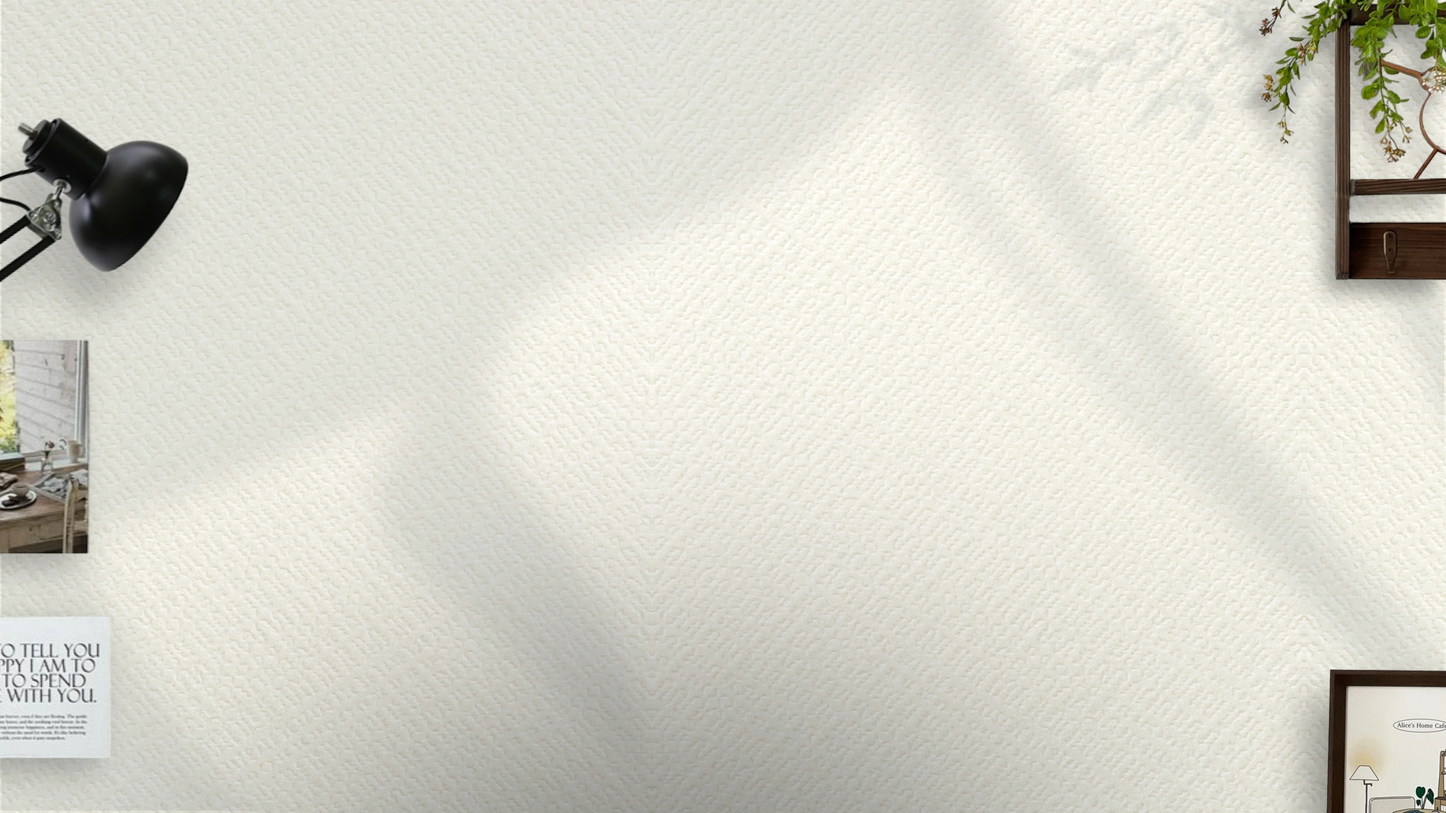
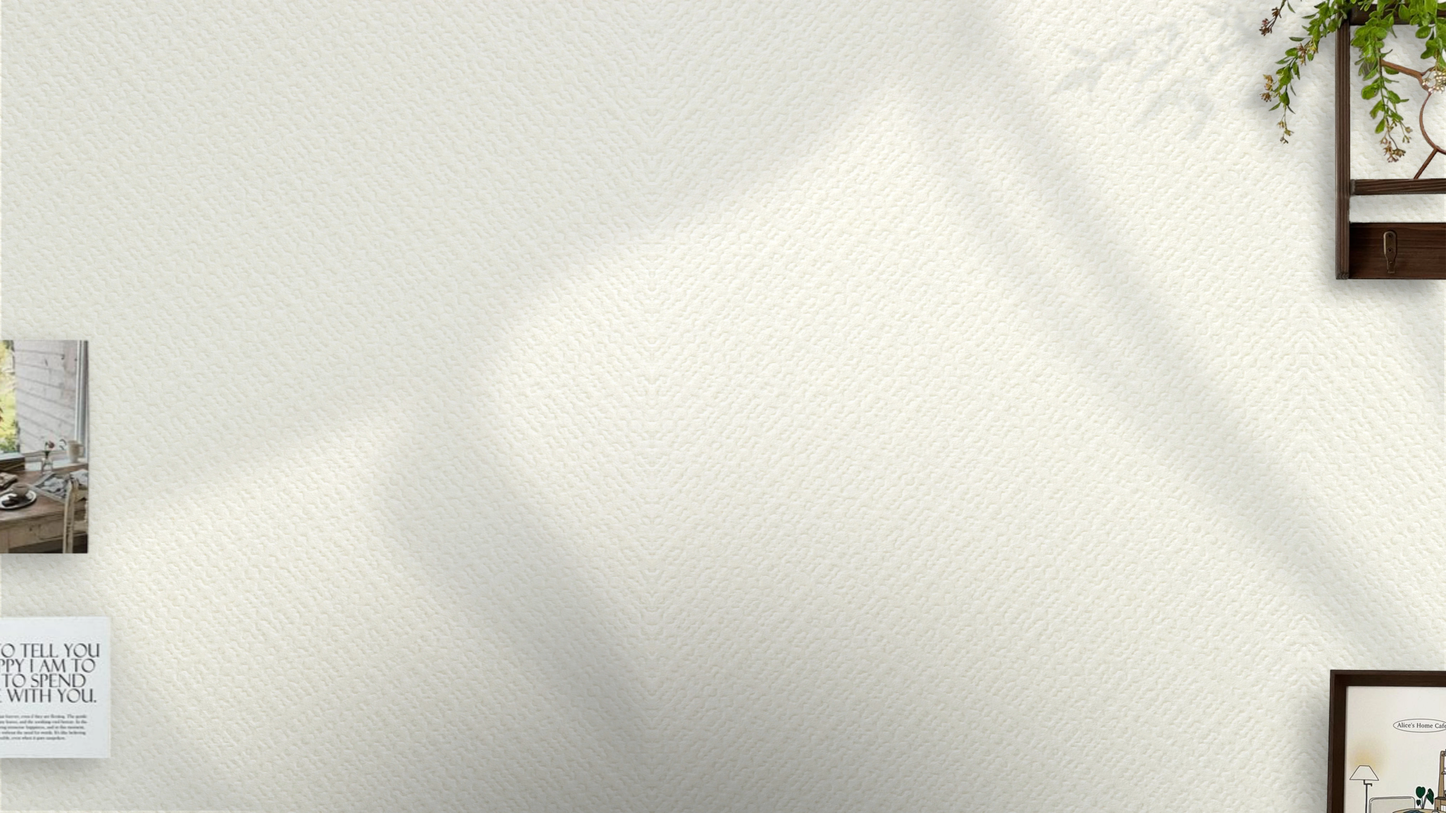
:sparkles: feat: mac 라이트모드 / 다크모드 수동 전환 버튼 생성 및 기능 구현

Changed region(s): [[0.0, 0.1244, 0.1558, 0.3733]]

diff --git a/src/pages/mac.html b/src/pages/mac.html
@@ -16,6 +16,7 @@
     <script type="module" src="/src/ts/mac-power-button.ts"></script>
     <script type="module" src="/src/ts/context-menu.ts"></script>
     <script type="module" src="/src/ts/icon-move.ts"></script>
+    <script type="module" src="/src/ts/button-mode-change.ts"></script>
     <script src="https://cdn.jsdelivr.net/npm/fullcalendar@6.1.17/index.global.min.js"></script>
     <script src="https://cdn.jsdelivr.net/npm/@fullcalendar/core@6.1.17/index.global.min.js"></script>
     <script src="https://cdn.jsdelivr.net/npm/@fullcalendar/daygrid@6.1.17/index.global.min.js"></script>
@@ -32,7 +33,10 @@
   </head>
   <body class="font-sans overflow-hidden no-scroll grid grid-cols-[1fr_calc(1200px_+_80px)_1fr] grid-rows-1 h-screen select-none">
     <div class="mac-entire-bg bg-[url('/public/asserts/mac/background-web/bg-white.webp')] dark:bg-[url('/public/asserts/mac/background-web/bg-black.webp')] bg-cover col-start-1 col-end-4 row-start-1 row-end-2"></div>
-    <div class="mac-left-bg bg-red-300/0 col-start-1 col-end-2 row-start-1 row-end-2"></div>
+    <div class="mac-left-bg col-start-1 col-end-2 row-start-1 row-end-2">
+      <!-- 라이트모드/다크모드 수동변환 버튼 -->
+      <button id="theme-toggle" type="button" aria-label="다크모드/라이트모드 토글" class="hover:opacity-80 mt-35 cursor-pointer -translate-x-15"><img id="theme-icon" src="/public/asserts/mac/stand_longer.webp" alt="다크모드/라이트모드 전환 아이콘" /></button>
+    </div>
     <div class="mac mt-10 col-start-2 col-end-3 row-start-1 row-end-2">
       <div class="shadow-[0_0_100px_0_rgba(0,0,0,0.50)] mac-border p-10 bg-linear-[45deg,_#000000_50%,_#3a3a3a_50%] dark:bg-linear-[-45deg,_#000000_50%,_#3a3a3a_50%] rounded-t-[35px] flex justify-center items-center">
         <div class="relative mac-screen flex flex-col items-center justify-between overflow-hidden w-[1200px] h-[675px] bg-[url(/public/asserts/mac/mac-screen-base-background-img.png)] dark:bg-[url(/public/asserts/mac/mac-screen-base-dark-background-img.png)] bg-cover rounded-[15px]">
@@ -67,7 +71,7 @@
           <!-- widget-container -->
           <div id="widget-container" class="grid grid-rows-[repeat(4,_100px)] my-auto grid-cols-[repeat(9,_100px)] gap-5">
             <!-- 시계 위젯 -->
-            <div draggable="true" class="clock-widget-component shadow-[0_0_15px_0_rgba(0,_0,_0,_0.50)] w-25 h-25 rounded-[23px] bg-linear-[180deg,_#fff_0%,_#DDD_30.77%] dark:bg-linear-[180deg,_#282828_0%,_#484848_100%] grid grid-cols-1 grid-rows-1" data-col="1" data-row="1">
+            <div draggable="true" class="clock-widget-component shadow-[0_0_15px_0_rgba(0,_0,_0,_0.50)] w-25 h-25 rounded-[23px] bg-linear-[180deg,_#fff_0%,_#DDD_30.77%] dark:bg-linear-[180deg,_#282828_0%,_#484848_100%] grid grid-cols-1 grid-rows-1 widget" data-col="1" data-row="1">
               <img class="col-start-1 row-start-1 place-self-center" src="/public/asserts/clock-widget/pan.svg" alt="" />
               <div class="relative w-full h-full col-start-1 row-start-1 second-niddle-div place-self-center">
                 <img draggable="false" class="absolute top-[8px] left-[49.2px]" src="/public/asserts/clock-widget/second-niddle.svg" alt="" />
@@ -81,12 +85,12 @@
               <img draggable="false" class="col-start-1 row-start-1 z-1 place-self-center" src="/public/asserts/clock-widget/center.svg" alt="" />
             </div>
             <!-- 달력 위젯 -->
-            <div draggable="true" class="calendar-widget w-[6.25rem] h-[6.25rem] bg-gradient-to-b from-white to-[#DDDDDD] dark:from-[#282828] dark:to-[#484848] rounded-[1.4375rem] shadow-[0_0_15px_rgba(0,0,0,0.5)] p-6 text-center justify-center items-center flex flex-col" data-col="1" data-row="1">
+            <div draggable="true" class="calendar-widget w-[6.25rem] h-[6.25rem] bg-gradient-to-b from-white to-[#DDDDDD] dark:from-[#282828] dark:to-[#484848] rounded-[1.4375rem] shadow-[0_0_15px_rgba(0,0,0,0.5)] p-6 text-center justify-center items-center flex flex-col widget" data-col="1" data-row="1">
               <div class="day-name dark:text-white text-[1rem] font-semibold h-[1.25rem]"></div>
               <div class="day-number mt-0 p-0 dark:text-white text-6xl font-bold h-[3.4375rem]"></div>
             </div>
             <!-- 날씨 위젯 -->
-            <div draggable="true" class="overflow-hidden text-white weather-widget1 w-55 h-25 py-4 pl-[10px] pr-[17px] bg-linear-[180deg,_#104E8B_0%,_#4A86C2_100%] shadow-[0_0_15px_0_rgba(0,_0,_0,_0.50)] rounded-[23px] flex justify-between items-center" data-col="2" data-row="1">
+            <div draggable="true" class="overflow-hidden text-white weather-widget1 w-55 h-25 py-4 pl-[10px] pr-[17px] bg-linear-[180deg,_#104E8B_0%,_#4A86C2_100%] shadow-[0_0_15px_0_rgba(0,_0,_0,_0.50)] rounded-[23px] flex justify-between items-center widget" data-col="2" data-row="1">
               <img draggable="false" class="object-contain h-full weather-status-img" src="/public/asserts/weather-widget/clear.svg" alt="" />
               <div class="flex flex-col items-end gap-1">
                 <div class="leading-[32px] temperature text-[32px] after:content-['°C']">26</div>
@@ -95,7 +99,7 @@
               </div>
             </div>
             <!-- 메모 위젯 -->
-            <div draggable="true" class="memo-widget w-[13.75rem] h-[6.25rem] rounded-[1.4375rem] shadow-[0_0_15px_rgba(0,0,0,0.5)] bg-white dark:bg-gradient-to-b dark:text-white dark:from-[#000000] dark:to-[#000000]">
+            <div draggable="true" class="memo-widget w-[13.75rem] h-[6.25rem] rounded-[1.4375rem] shadow-[0_0_15px_rgba(0,0,0,0.5)] bg-white dark:bg-gradient-to-b dark:text-white dark:from-[#000000] dark:to-[#000000] widget">
               <!-- 헤더(yellow) -->
               <div class="memo-widget-header flex w-full h-7 bg-gradient-to-b from-[#FFE855] to-[#FFB115] rounded-t-[1.4375rem] px-[1.125rem] items-center">
                 <button type="button" class="flex items-center cursor-pointer gap-1.5 pt-[.0313rem] active:opacity-50">

diff --git a/src/ts/button-mode-change.ts b/src/ts/button-mode-change.ts
@@ -1,0 +1,42 @@
+const html = document.documentElement;
+const toggleButton = document.getElementById('theme-toggle') as HTMLButtonElement;
+
+function isSystemDark(): boolean {
+  return window.matchMedia('(prefers-color-scheme: dark)').matches;
+}
+
+function applyTheme(theme: string | null) {
+  if (theme === 'dark') {
+    html.setAttribute('data-theme', 'dark');
+    // console.log('🌙 data-theme="dark" 적용');
+  } else if (theme === 'light') {
+    html.setAttribute('data-theme', 'light');
+    // console.log('☀ data-theme="light" 적용');
+  } else {
+    const systemDark = isSystemDark();
+    html.setAttribute('data-theme', systemDark ? 'dark' : 'light');
+    // console.log(`🖥 시스템 테마 기반 적용: ${systemDark ? 'dark' : 'light'}`);
+  }
+}
+
+const savedTheme = localStorage.getItem('theme');
+applyTheme(savedTheme);
+
+toggleButton.addEventListener('click', () => {
+  const current = localStorage.getItem('theme');
+
+  // 👉 애니메이션 초기화
+  toggleButton.classList.remove('wiggle');
+  void toggleButton.offsetWidth; // ← reflow 강제 발생 (핵심!)
+  toggleButton.classList.add('wiggle');
+
+  // 토글 테마 적용
+  if (!current) {
+    const forced = isSystemDark() ? 'light' : 'dark';
+    localStorage.setItem('theme', forced);
+    applyTheme(forced);
+  } else {
+    localStorage.removeItem('theme');
+    applyTheme(null);
+  }
+});

diff --git a/src/style.css b/src/style.css
@@ -4,6 +4,8 @@
   --font-sans: 'Pretendard Variable', 'sans-serif';
 }
 
+@custom-variant dark (&:where([data-theme=dark], [data-theme=dark] *));
+
 /* doodi-game: 두더지 등장하는 애니메이션 */
 @keyframes moleBounce {
   0% {
@@ -163,6 +165,34 @@
   50% {
     transform: translateY(-12px);
   }
+}
+
+/* mac-widget: hover 속성 */
+.widget:hover {
+  transform: scale(1.05);
+  transition: transform 0.4s cubic-bezier(0, 0.65, 0.76, 1);
+}
+
+/* mac: button-mode-change 모드 전환 애니메이션 */
+@keyframes rotate-wiggle {
+  0%,
+  100% {
+    transform: rotate(0deg);
+  }
+  25% {
+    transform: rotate(3deg);
+  }
+  50% {
+    transform: rotate(-3deg);
+  }
+  75% {
+    transform: rotate(1deg);
+  }
+}
+
+.wiggle {
+  animation: rotate-wiggle 0.4s ease-in-out;
+  transform-origin: left bottom;
 }
 
 @layer components {

diff --git a/src/pages/doodi-all.html b/src/pages/doodi-all.html
@@ -1,5 +1,5 @@
 <!doctype html>
-<html lang="ko-KR">
+<html lang="ko-KR" class="dark">
   <head>
     <meta charset="UTF-8" />
     <meta name="viewport" content="width=device-width, initial-scale=1.0" />
